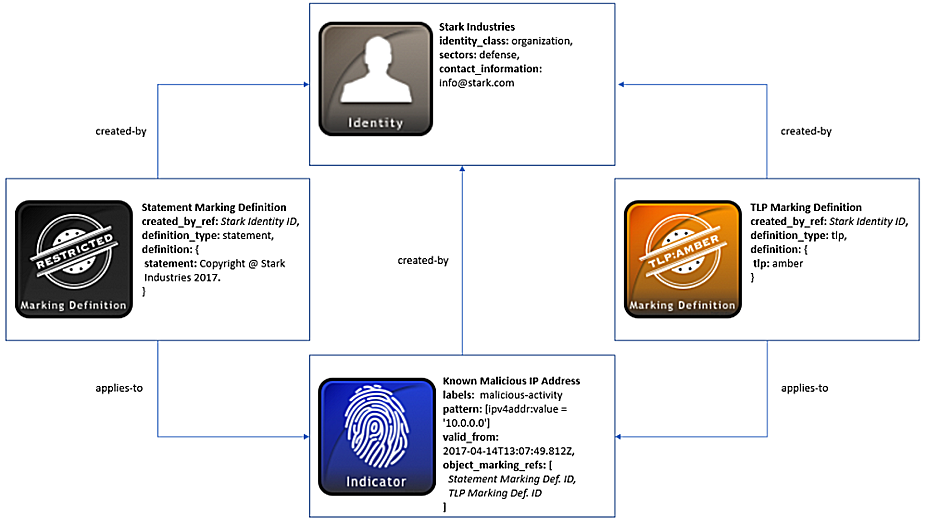
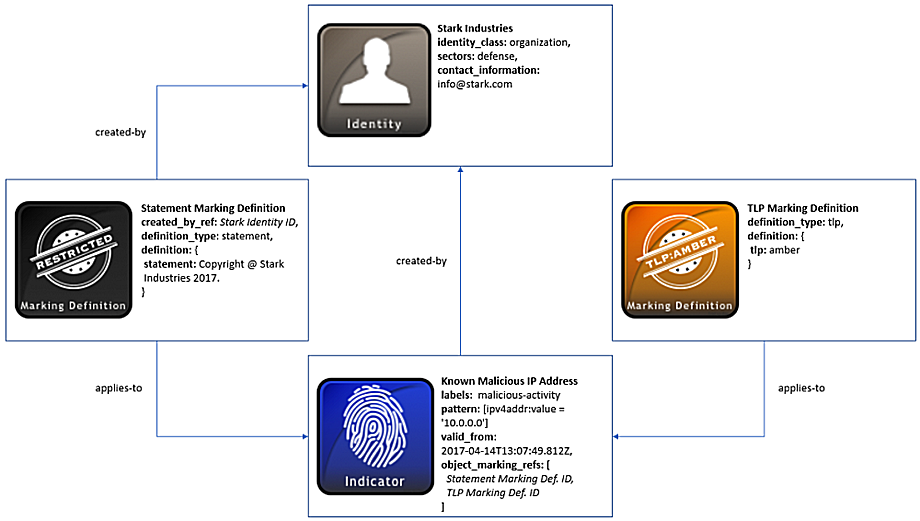
Updated Marking Definitions Example
--Fixed portion of example discussing TLP object markings. This marking
now satisfies the MUST requirements of the 2.0 spec for TLP.

diff --git a/examples/using-marking-definitions.md b/examples/using-marking-definitions.md
@@ -9,20 +9,20 @@ Being able to structure the handling of data through the use of data markings is
 **Scenario**
 ------------
 
-This scenario focuses on a STIX producer, “Stark Industries”, who imposes object markings on an indicator object. Before sharing this indicator, Stark creates both “Statement” and “Traffic Light Protocol” (TLP) marking definitions to apply to the indicator. These marking definitions incorporate copyright information and restrict the usage of the indicator based on its TLP marking type.
+This scenario focuses on a STIX producer, “Stark Industries”, who imposes object markings on an indicator object. Before sharing this indicator, Stark creates a “Statement” marking definition and selects a “Traffic Light Protocol” (TLP) marking definition to apply to the indicator. These marking definitions incorporate copyright information and restrict the usage of the indicator based on its TLP marking type.
 
 **Data model**
 --------------
 
 First, we start with the producer of the STIX content in this scenario, Stark Industries. The information relevant to this company can be represented using an [Identity](https://docs.google.com/document/d/1S5XhY6F5OT599b0OuHtUf8IBzFvNY8RysFHIj93DgsY/edit#heading=h.wh296fiwpklp) STIX Domain Object (SDO). Like with all STIX objects, an <span class="sdo">**id**</span> attribute uniquely identifies Stark Industries and can be referenced within all the objects they generate with the <span class="sdo">**created\_by\_ref**</span> property. Although <span class="sdo">**created\_by\_ref**</span> is optional, this is helpful for attributing the created marking definitions directly to Stark. The Identity object is also useful for listing other relevant details about Stark such as <span class="sdo">**contact\_information**</span> and what type of identity they are with the <span class="sdo">**identity\_class**</span> field.
 
-Next, Stark created a couple of STIX [Marking Definition](https://docs.google.com/document/d/1IcA5KhglNdyX3tO17bBluC5nqSf70M5qgK9nuAoYJgw/edit#heading=h.k5fndj2c7c1k) objects to restrict the handling of the Indicator object and to incorporate copyright information. In the first instance, Stark uses the [TLP Marking Object Type](https://docs.google.com/document/d/1IcA5KhglNdyX3tO17bBluC5nqSf70M5qgK9nuAoYJgw/edit#heading=h.yd3ar14ekwrs) to communicate appropriate restrictions for the indicator. For this Marking Definition object, the <span class="sdo">**definition\_type**</span> must be <span class="values">tlp</span> and the <span class="sdo">**definition**</span> field must contain one of the four types of TLP. In this example, the TLP restriction type is <span class="values">amber</span>. This provides limited disclosure to only appropriate recipients who have a need to know. To read about this restriction and the other types of TLP, check out [US-CERT’s TLP Definitions and Usage](https://www.us-cert.gov/tlp).
+Next, Stark used a couple of STIX [Marking Definition](https://docs.google.com/document/d/1IcA5KhglNdyX3tO17bBluC5nqSf70M5qgK9nuAoYJgw/edit#heading=h.k5fndj2c7c1k) objects to restrict the handling of the Indicator object and to incorporate copyright information. In the first instance, Stark chose a [TLP Marking Object Type](https://docs.google.com/document/d/1IcA5KhglNdyX3tO17bBluC5nqSf70M5qgK9nuAoYJgw/edit#heading=h.yd3ar14ekwrs) to communicate appropriate restrictions for the indicator. For this Marking Definition object, the <span class="sdo">**definition\_type**</span> must be <span class="values">tlp</span> and the <span class="sdo">**definition**</span> field must contain one of the four types of TLP. In this example, the TLP restriction type is <span class="values">amber</span>. This provides limited disclosure to only appropriate recipients who have a need to know. To read about this restriction and the other types of TLP, check out [US-CERT’s TLP Definitions and Usage](https://www.us-cert.gov/tlp).
 
-A second marking type, [Statement](https://docs.google.com/document/d/1IcA5KhglNdyX3tO17bBluC5nqSf70M5qgK9nuAoYJgw/edit#heading=h.3ru8r05saera), is used for Stark Industries’ copyright information and is applied to all objects they produce. This is similar in format to the TLP Marking Definition object, except the <span class="sdo">**definition\_type**</span> in this case must be <span class="values">statement</span>. The <span class="sdo">**definition**</span> field contains any type of terms of use or copyright information you want to convey. For this organization, it simply states <span class="values">Copyright @ Stark Industries 2017</span>. This property could also communicate any terms of use, or you could incorporate both since Statement allows for multiple marking types.
+A second marking type created by Stark Industries called [Statement](https://docs.google.com/document/d/1IcA5KhglNdyX3tO17bBluC5nqSf70M5qgK9nuAoYJgw/edit#heading=h.3ru8r05saera), is used to represent their copyright information and is applied to all objects they produce. This is similar in format to the TLP Marking Definition object, except the <span class="sdo">**definition\_type**</span> in this case must be <span class="values">statement</span> and there is a <span class="sdo">**created\_by\_ref**</span> field since TLP is already pre-defined in the STIX 2.0 specification. The <span class="sdo">**definition**</span> field contains any type of copyright information you want to convey. For this organization, it simply states <span class="values">Copyright @ Stark Industries 2017</span>. This property could also communicate any terms of use, or you could incorporate both since Statement allows for multiple marking types.
 
-A point of emphasis worth noting is that Marking Definition objects cannot be versioned like other STIX objects. For instance, if Stark Industries wanted to update their Statement information or add terms of use to the marking definition, they would have to generate a new Marking Definition object with the Indicator SDO updated to point to this new definition. They could not add or change their current Statement marking and simply update the <span class="sdo">**modified**</span> property like with other objects, because there is no required <span class="sdo">**modified**</span> property with Marking Definition objects.
+A point of emphasis worth noting is that Marking Definition objects cannot be versioned like other STIX objects. For instance, if Stark Industries wanted to update their Statement information or add terms of use to the marking definition, they would have to generate a new Marking Definition object with the Indicator SDO updated to point to this new definition. They could not add or change their current Statement marking and simply update the <span class="sdo">**modified**</span> property like with other objects, because there is no required <span class="sdo">**modified**</span> property with Marking Definition objects. To understand more about versioning objects, check out this helpful tutorial video on [How to Use Versioning in STIX 2](https://www.youtube.com/watch?v=s4c4PHUfttE).
 
-Finally, Stark can apply these marking definitions to the [Indicator](https://docs.google.com/document/d/1S5XhY6F5OT599b0OuHtUf8IBzFvNY8RysFHIj93DgsY/edit#heading=h.muftrcpnf89v) SDO that contains the malicious IP address they discovered on their network. These object markings are embedded within the Indicator object in the <span class="sdo">**object\_marking\_refs**</span> property and reference the Marking Definition object <span class="sdo">**id**</span>’s for both Statement and TLP. Once referenced, both of Stark’s markings apply to the Indicator object. It’s worth mentioning that this property and the <span class="sdo">**created\_by\_ref**</span> property presented earlier represent one of just a few embedded relationships in STIX 2.0. In most cases, to establish a relationship between objects in STIX, such as between an Indicator and Threat Actor SDO, you would create a [Relationship](https://docs.google.com/document/d/1S5XhY6F5OT599b0OuHtUf8IBzFvNY8RysFHIj93DgsY/edit#heading=h.e2e1szrqfoan) STIX Relationship Object (SRO).
+Finally, Stark can apply these marking definitions to the [Indicator](https://docs.google.com/document/d/1S5XhY6F5OT599b0OuHtUf8IBzFvNY8RysFHIj93DgsY/edit#heading=h.muftrcpnf89v) SDO that contains the malicious IP address they discovered on their network. These object markings are embedded within the Indicator object in the <span class="sdo">**object\_marking\_refs**</span> property and reference the Marking Definition object <span class="sdo">**id**</span>’s for both Statement and TLP. Once referenced, these markings apply to the Indicator object. It’s worth mentioning that this property and the <span class="sdo">**created\_by\_ref**</span> property presented earlier represent one of just a few embedded relationships in STIX 2.0. In most cases, to establish a relationship between objects in STIX, such as between an Indicator and Threat Actor SDO, you would create a [Relationship](https://docs.google.com/document/d/1S5XhY6F5OT599b0OuHtUf8IBzFvNY8RysFHIj93DgsY/edit#heading=h.e2e1szrqfoan) STIX Relationship Object (SRO).
 
 Other than object marking references, the rest of the Indicator object contains properties that detail information about the IP address. The <span class="sdo">**pattern**</span> property, for instance, is based on the [STIX patterning language](https://docs.google.com/document/d/1suvd7z7YjNKWOwgko-vJ84jfGuxSYZjOQlw5leCswPY/edit) and represents an IPv4 address as a comparison expression: <span class="values">\[ipv4addr:value = '10.0.0.0'\]</span>. Stark also knows this is a nefarious IP and relays this information with the <span class="sdo">**labels**</span> property indicating this IP is associated with <span class="values">malicious-activity</span>. Due to the fact this was a known bad IP present on their network, it is advantageous for Stark to be able to apply the appropriate TLP marking definitions to this indicator.
 
@@ -67,9 +67,8 @@ To read more about the objects in this example as well as common properties and 
     },
     {
       "type": "marking-definition",
-      "id": "marking-definition--05ac6c05-8b38-43f2-996d-e6715571090b",
-      "created": "2017-04-14T13:07:49.812Z",
-      "created_by_ref": "identity--611d9d41-dba5-4e13-9b29-e22488058ffc",
+      "id": "marking-definition--f88d31f6-486f-44da-b317-01333bde0b82",
+      "created": "2017-01-20T00:00:00.000Z",
       "definition_type": "tlp",
       "definition": {
         "tlp": "amber"
@@ -78,7 +77,7 @@ To read more about the objects in this example as well as common properties and 
     {
       "type": "marking-definition",
       "id": "marking-definition--d771aceb-3148-4315-b4b4-130b888533d0",
-      "created": "2017-04-14T13:07:49.812Z",      
+      "created": "2017-04-14T13:07:49.812Z",
       "created_by_ref": "identity--611d9d41-dba5-4e13-9b29-e22488058ffc",
       "definition_type": "statement",
       "definition": {
@@ -98,10 +97,11 @@ To read more about the objects in this example as well as common properties and 
       "pattern": "[ipv4addr:value = '10.0.0.0']",
       "valid_from": "2017-04-14T13:07:49.812Z",
       "object_marking_refs": [
-        "marking-definition--05ac6c05-8b38-43f2-996d-e6715571090b",
+        "marking-definition--f88d31f6-486f-44da-b317-01333bde0b82",
         "marking-definition--d771aceb-3148-4315-b4b4-130b888533d0"
       ]
     }
   ]
 }
+
 ```
